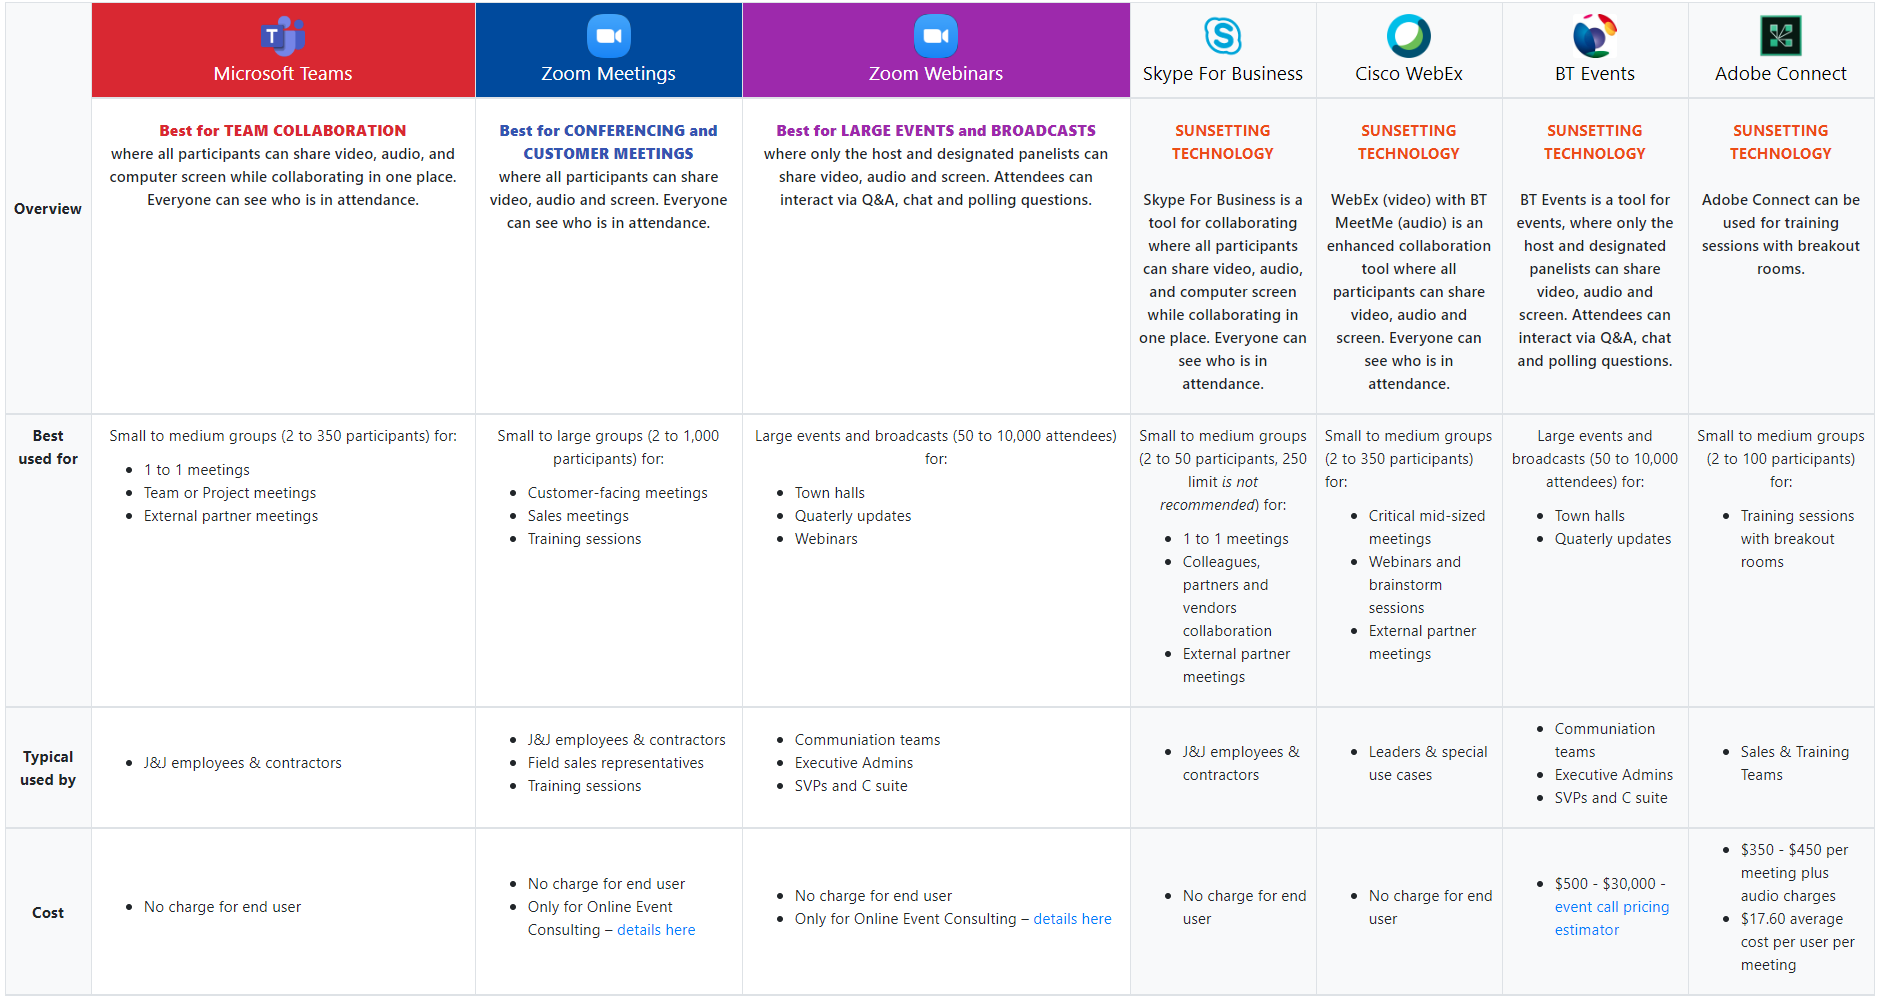
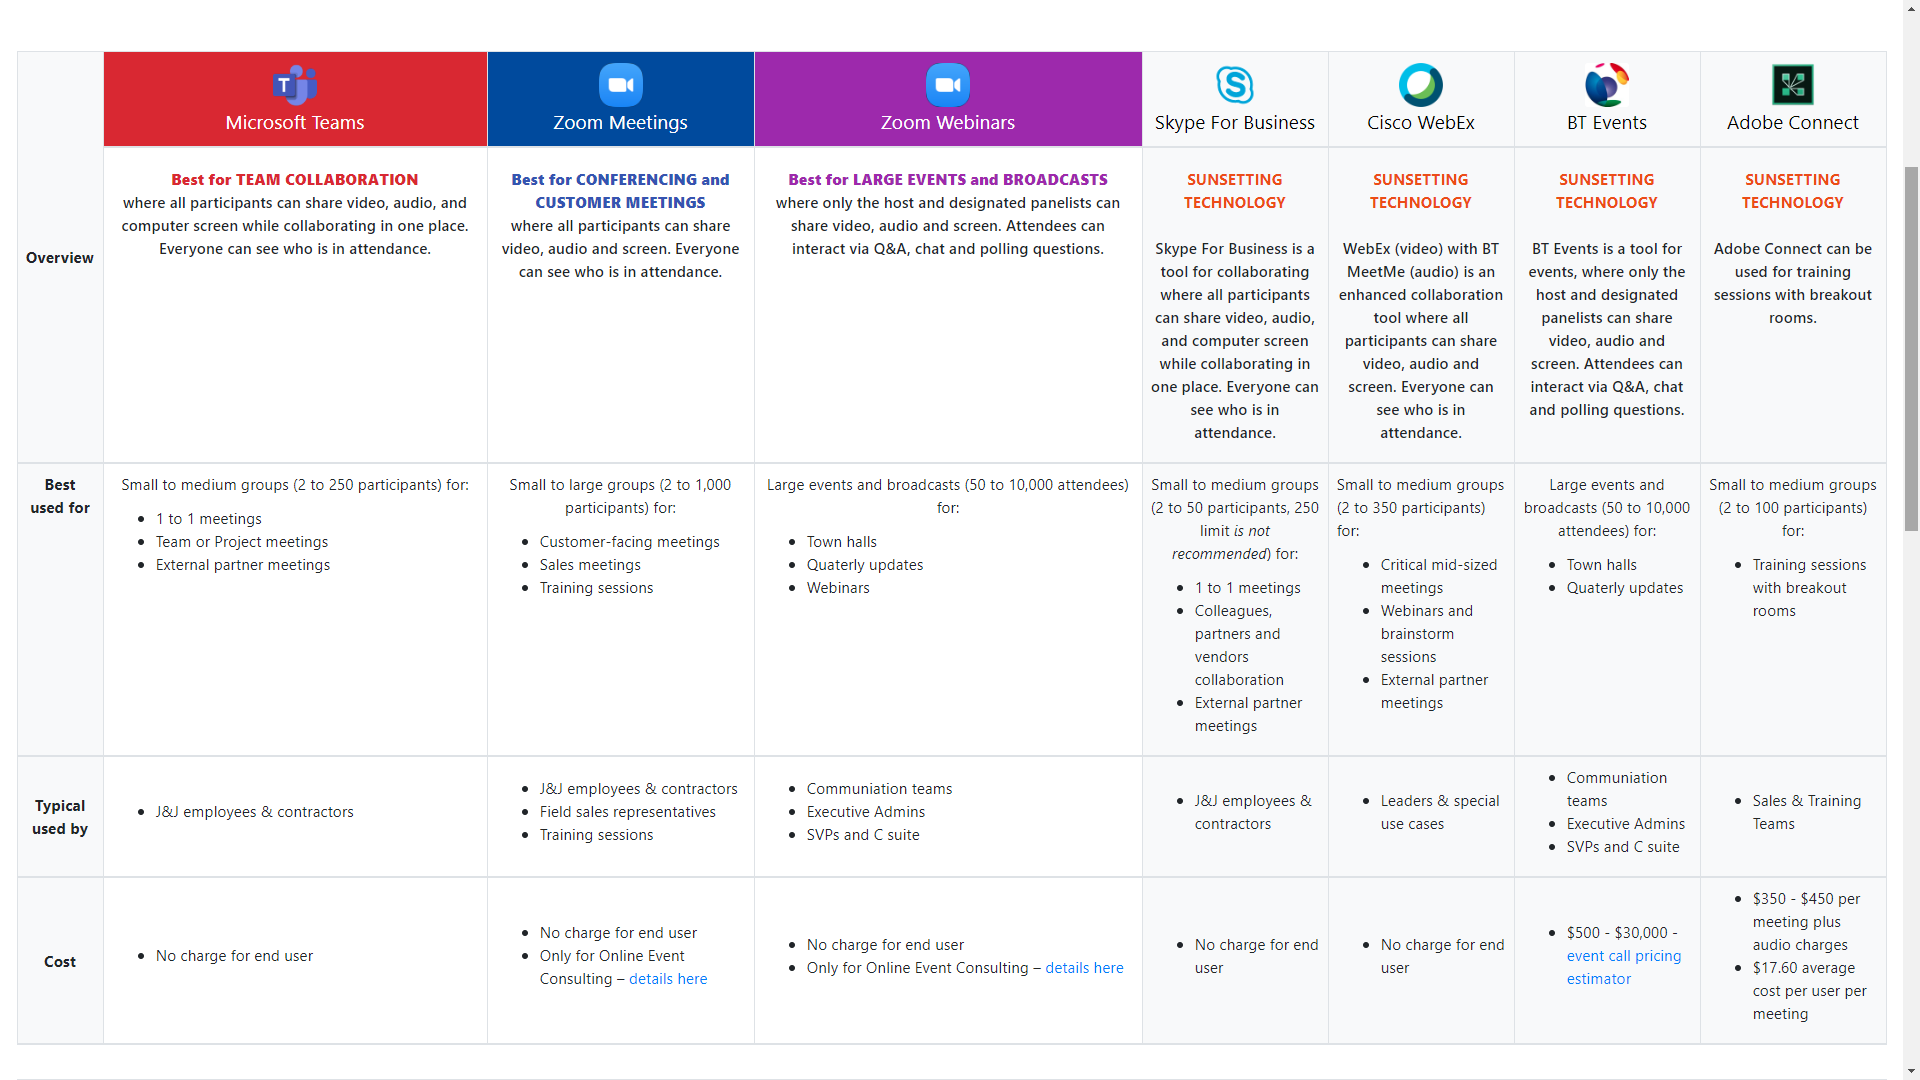
VMs Final Revision

diff --git a/Scenarios/VirtualMeetings/toolkit_vm_v40.html b/Scenarios/VirtualMeetings/toolkit_vm_v40.html
@@ -277,7 +277,7 @@
                     <tr class="text-left">
                         <th scope="row" class="text-center align-top bg-light">Best used for</th>
                         <td class="align-center">
-                            <p class="text-center">Small to medium groups (2 to 350 participants) for:</p>
+                            <p class="text-center">Small to medium groups (2 to 250 participants) for:</p>
                             <ul>
                                 <li>1 to 1 meetings</li>
                                 <li>Team or Project meetings</li>

diff --git a/Scenarios/VirtualMeetings/toolkit_vm_v50.html b/Scenarios/VirtualMeetings/toolkit_vm_v50.html
@@ -280,7 +280,7 @@
                     <tr class="text-left">
                         <th scope="row" class="text-center align-top bg-light">Best used for</th>
                         <td class="align-center">
-                            <p class="text-center">Small to medium groups (2 to 350 participants) for:</p>
+                            <p class="text-center">Small to medium groups (2 to 250 participants) for:</p>
                             <ul>
                                 <li>1 to 1 meetings</li>
                                 <li>Team or Project meetings</li>
